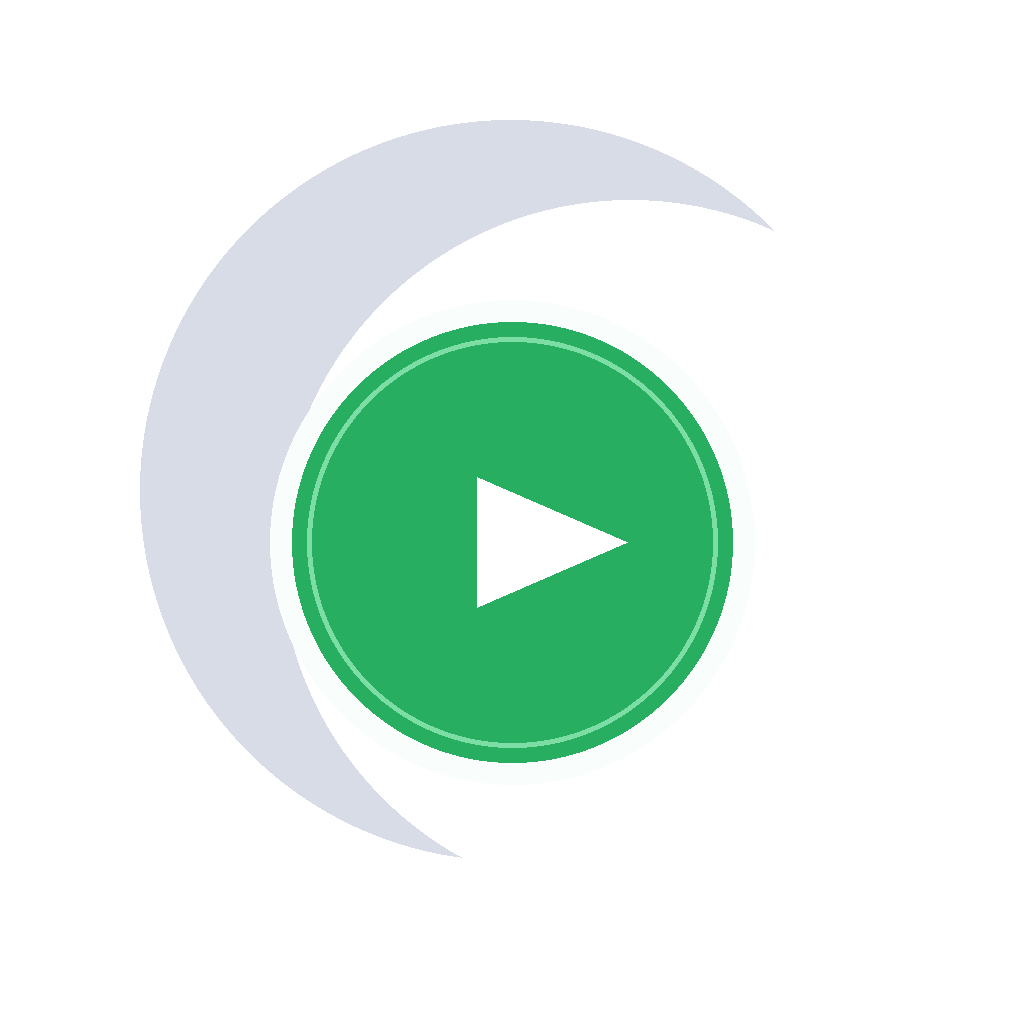
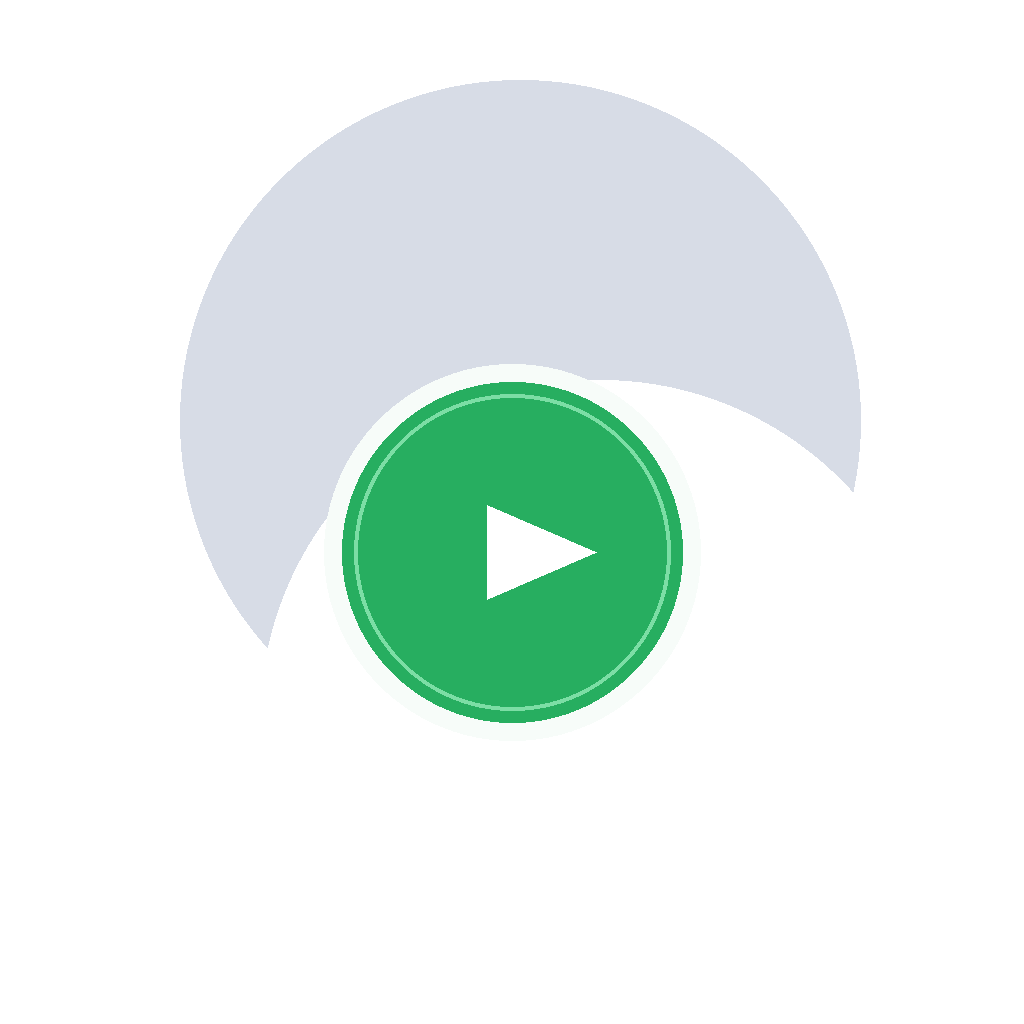
feat: 项目概览

Changed region(s): [[0.125, 0.0625, 0.8438, 0.8438], [0.1875, 0.2812, 0.2188, 0.3125]]

diff --git a/generate_icon.py b/generate_icon.py
@@ -60,26 +60,27 @@ def draw_icon(size: int = 1024) -> Image.Image:
         fill=WHITE + (255,),
     )
 
-    # 2. 月亮背景 (浅蓝灰新月)
+    # 2. 月亮背景 (浅蓝灰新月,开口朝下,月亮在上方)
     moon_color = MOON_COLOR + (255,)
+    # 月亮主体圆 - 偏上方
     draw.ellipse(
-        [(int(140 * s), int(120 * s)), (int(880 * s), int(860 * s))],
+        [(int(180 * s), int(80 * s)), (int(860 * s), int(760 * s))],
         fill=moon_color,
     )
-    # 挖出右下角形成新月
+    # 挖出下方形成新月(开口朝下)
     draw.ellipse(
-        [(int(280 * s), int(200 * s)), (int(980 * s), int(900 * s))],
+        [(int(260 * s), int(380 * s)), (int(940 * s), int(1060 * s))],
         fill=WHITE + (255,),
     )
 
-    # 3. 绿色播放按钮圆形 (中心)
+    # 3. 绿色播放按钮圆形 (中心,缩小)
     cx = size // 2
-    cy = size // 2 + int(30 * s)
-    r_circle = int(220 * s)
+    cy = size // 2 + int(40 * s)
+    r_circle = int(170 * s)  # 从 220 缩小到 170
 
     # 外圈柔光晕
-    for i in range(12):
-        alpha = max(0, 50 - i * 4)
+    for i in range(10):
+        alpha = max(0, 45 - i * 4)
         draw.ellipse(
             [(cx - r_circle - i * 2, cy - r_circle - i * 2),
              (cx + r_circle + i * 2, cy + r_circle + i * 2)],
@@ -94,20 +95,20 @@ def draw_icon(size: int = 1024) -> Image.Image:
 
     # 内圈高光边
     draw.ellipse(
-        [(cx - r_circle + int(15 * s), cy - r_circle + int(15 * s)),
-         (cx + r_circle - int(15 * s), cy + r_circle - int(15 * s))],
+        [(cx - r_circle + int(12 * s), cy - r_circle + int(12 * s)),
+         (cx + r_circle - int(12 * s), cy + r_circle - int(12 * s))],
         outline=GREEN_LIGHT + (200,),
-        width=max(2, int(5 * s)),
+        width=max(2, int(4 * s)),
     )
 
-    # 4. 白色播放三角形
-    tri_size = int(130 * s)
-    tx = cx + int(30 * s)  # 视觉居中向右偏移
+    # 4. 白色播放三角形 (缩小)
+    tri_size = int(95 * s)  # 从 130 缩小到 95
+    tx = cx + int(22 * s)  # 视觉居中向右偏移
     ty = cy
     triangle = [
         (tx - tri_size // 2, ty - tri_size // 2),
         (tx - tri_size // 2, ty + tri_size // 2),
-        (tx + tri_size // 2 + int(20 * s), ty),
+        (tx + tri_size // 2 + int(15 * s), ty),
     ]
     draw.polygon(triangle, fill=WHITE + (255,))
 